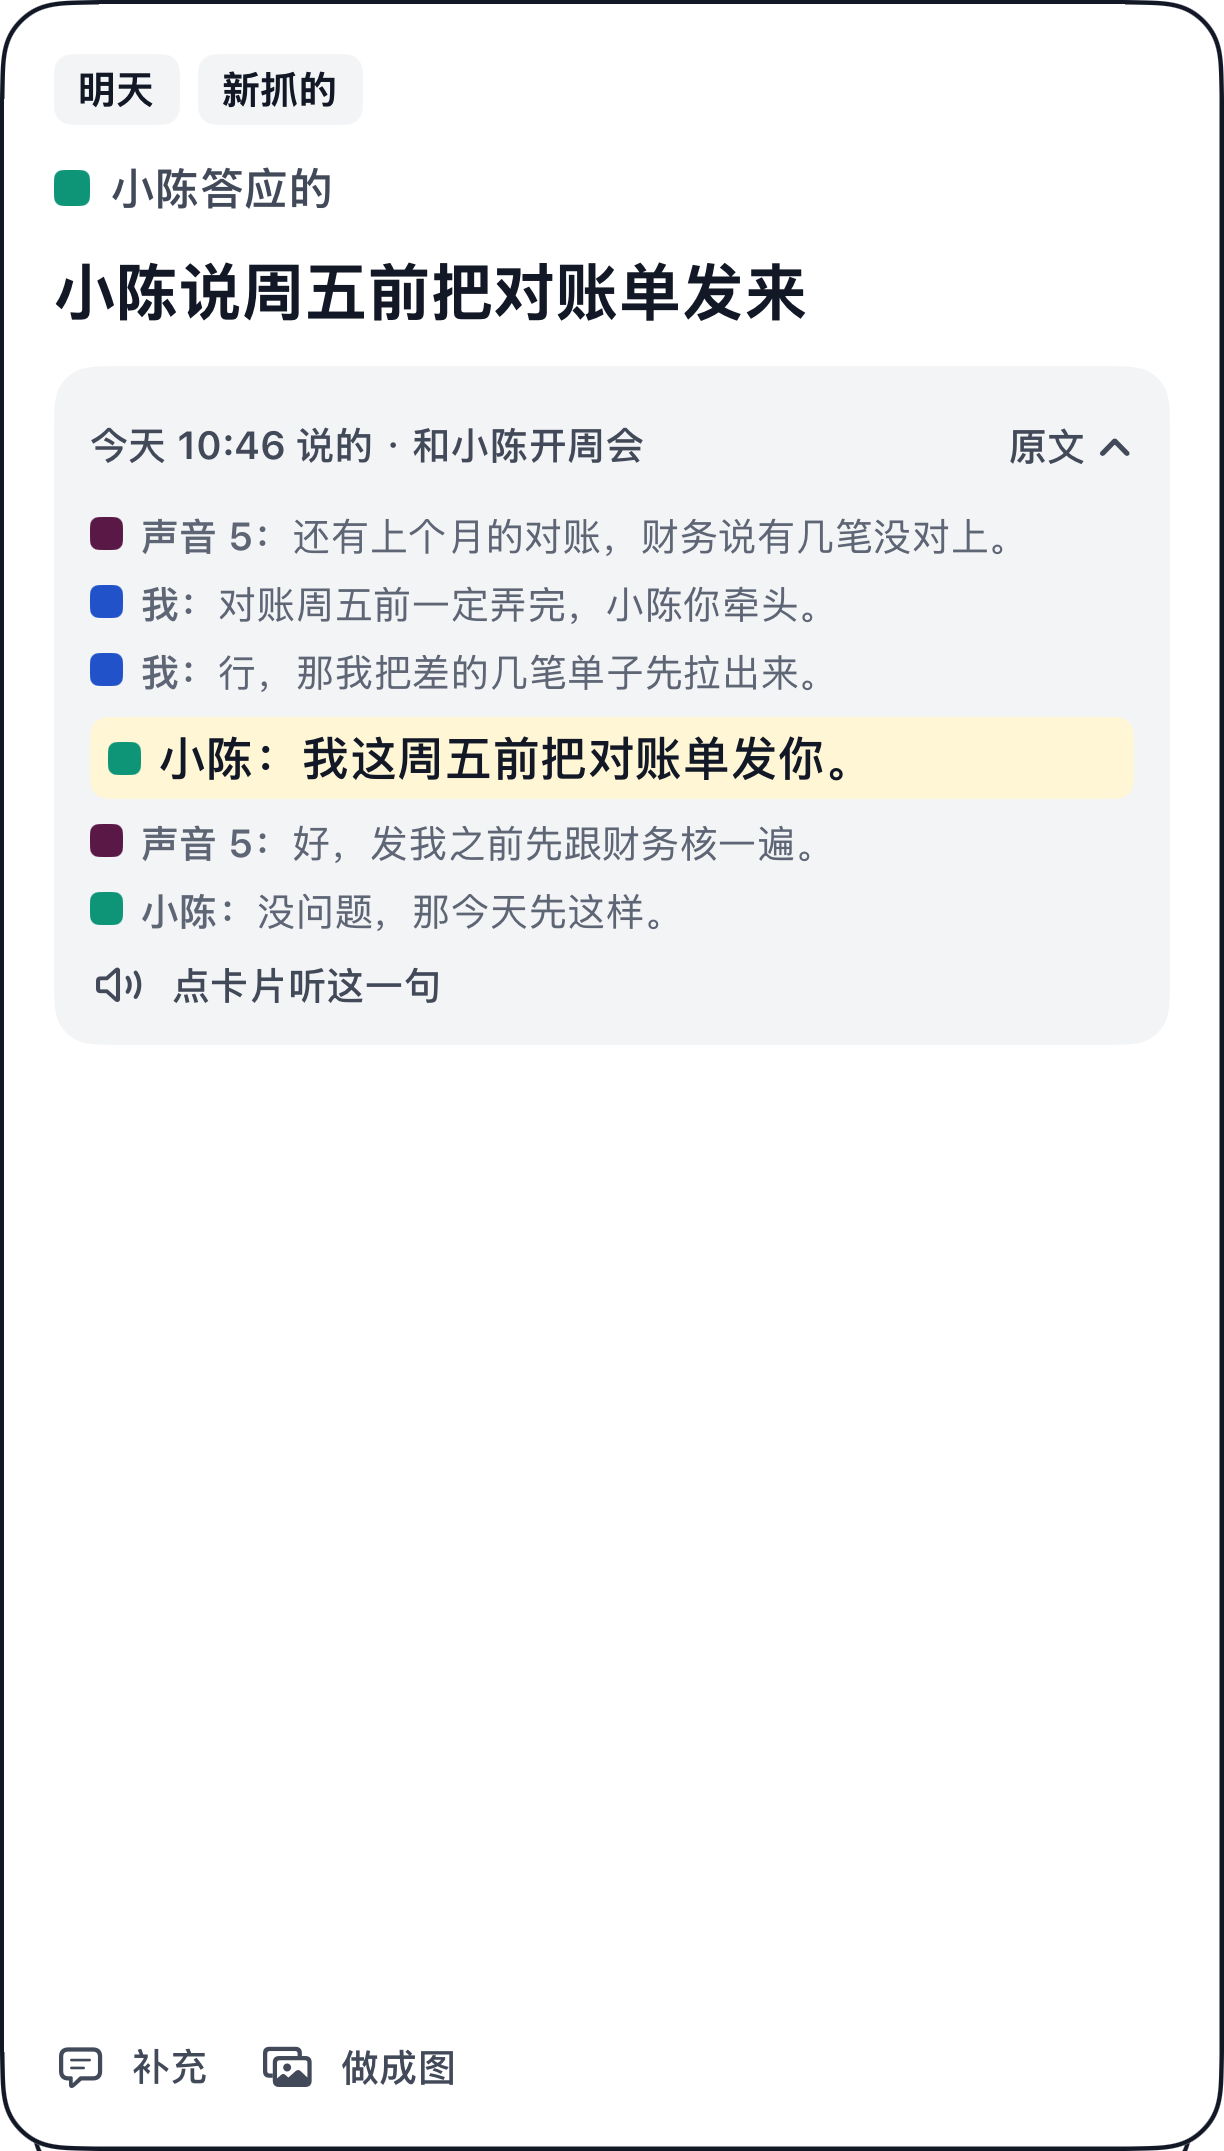
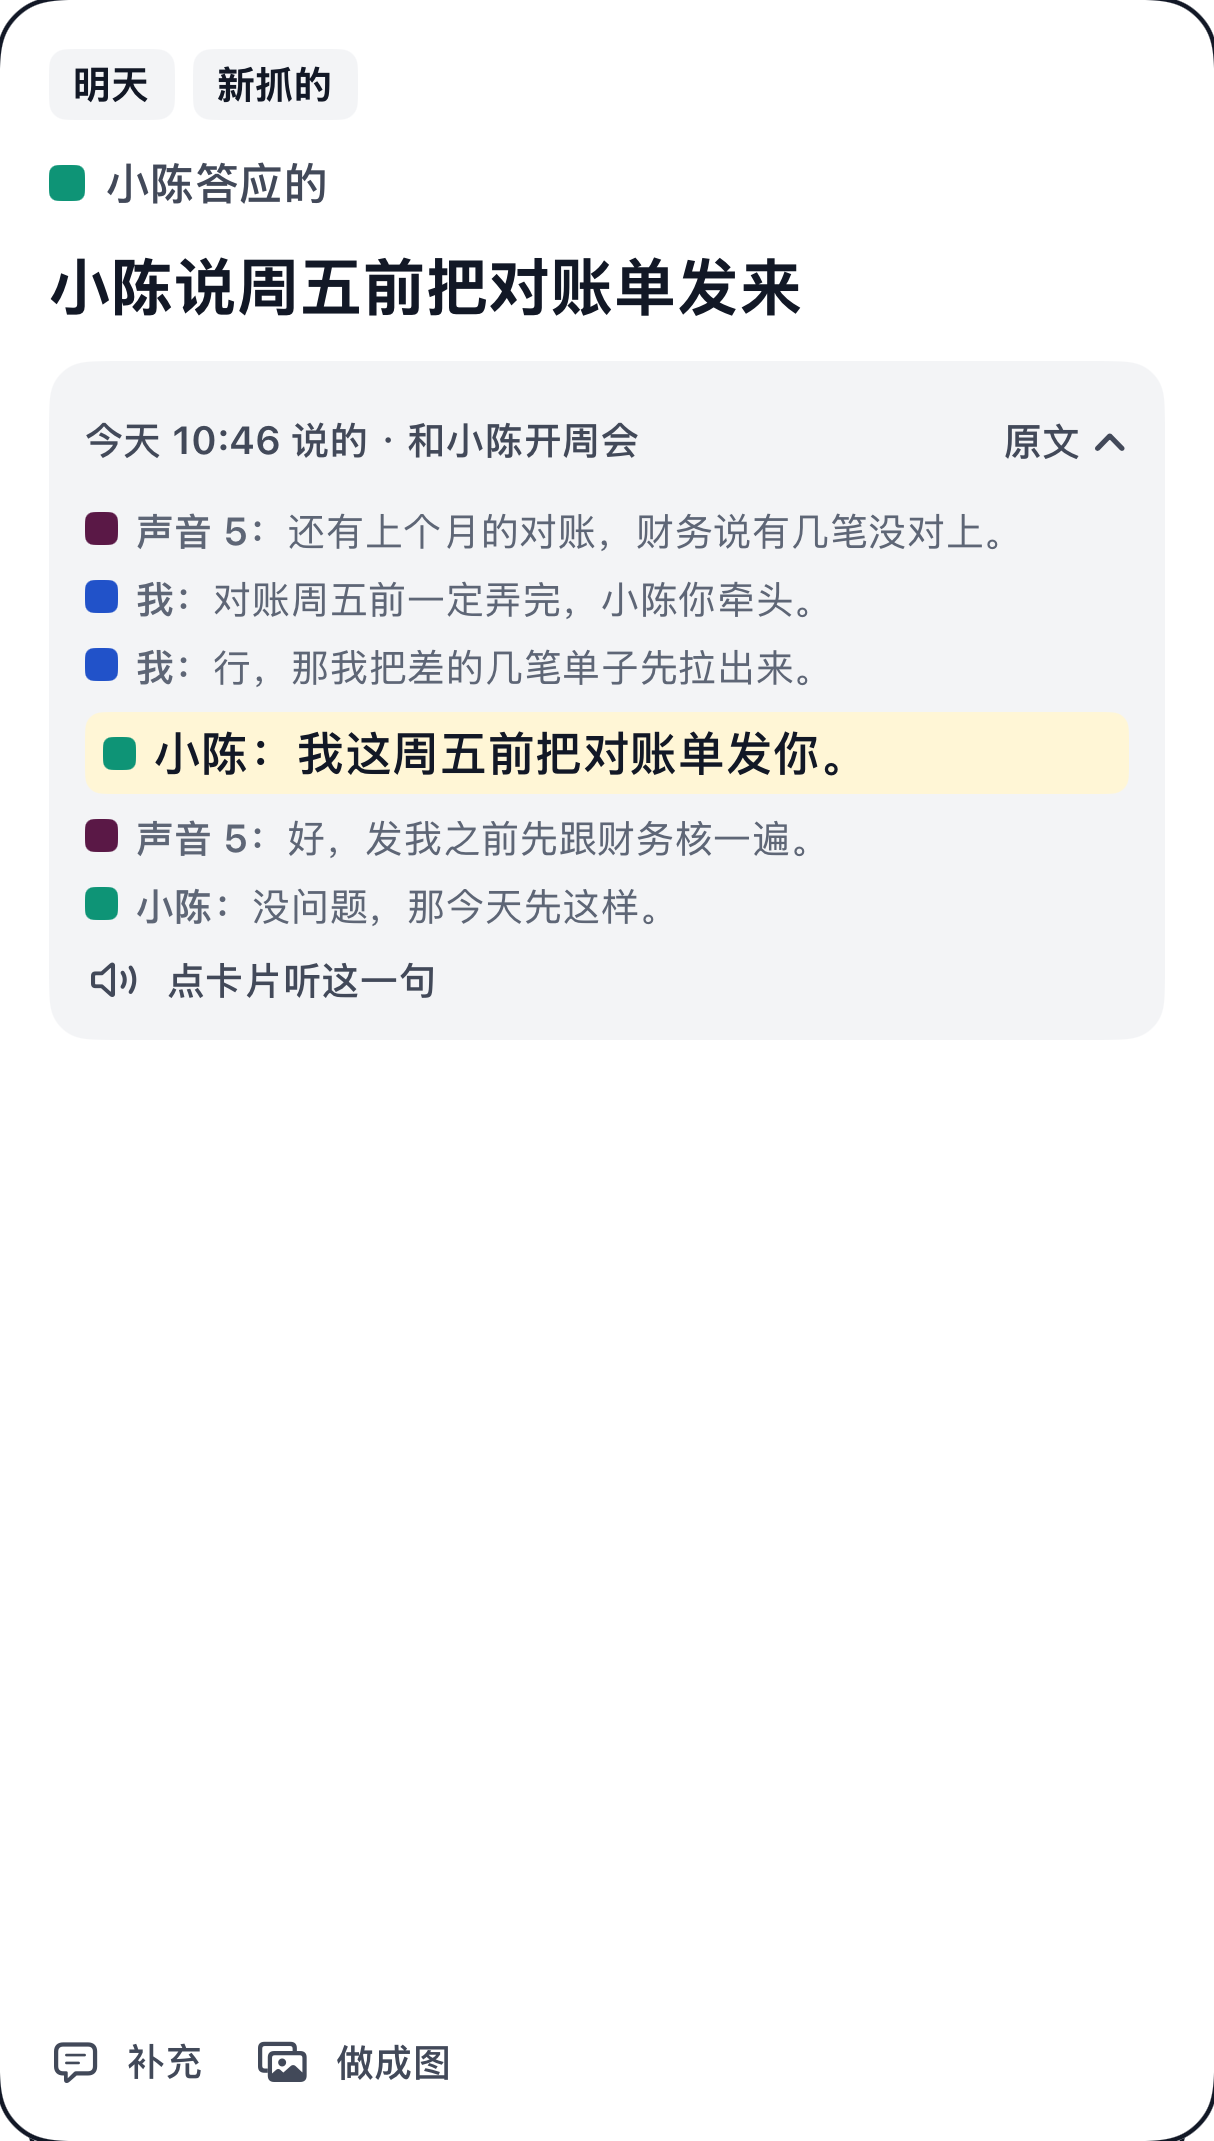
fix(fanear): 待办动效改成左右两轮都真的滑走，回到起始不再两张卡重影
- 两轮交替、每轮都从静止开始：第一轮左滑变琥珀「要做 · 稍后提醒」向左飞走，第二轮右滑变绿
  「做完了 / 不用做 · 不再提醒」向右飞走；两个方向露出的都是同一张下一张（小陈对账单），跟 App 一致。
  不再左拖又拖回来、不带着淡色穿过中线。
- 回到起始分两步：下一张先淡出成空牌堆，第一张再从牌堆里升上来，卡片区域任何时候只有一张卡的字。
- 下一张的裁图只取边框以内，边框由样式画（在后面浅灰 1 点、顶上来变深墨 1.5 点），静止时底边跟截图一致。

Claude-Session-Id: 984c1437-685c-4510-96a0-a9639aec2790

diff --git a/sites/fanear/src/styles/shot-motion.css b/sites/fanear/src/styles/shot-motion.css
@@ -5,7 +5,7 @@
    系统设了「减弱动态效果」完全不出来。
    位置都按截图上的点写：--u 是一点在页面上多宽（这部手机的屏幕宽 = 440 点），跟着手机宽度缩放。
    动画一律分开写（animation-name、animation-duration……），不用 animation 简写（同 scroll-motion.css 里写的原因）。
-   拖动距离、滑条进度、往上挪多少各用一个登记过的变量（@property）做动画，颜色、倾斜、透明度都由它算出来，
+   拖动距离、滑条进度、往上挪多少、第一张升回来多少各用一个登记过的变量（@property）做动画，颜色、倾斜、透明度都由它算出来，
    和 App 里按拖动距离算的公式一样。 */
 
 @property --sm-x {
@@ -15,6 +15,12 @@
 }
 
 @property --sm-p {
+	syntax: '<number>';
+	inherits: true;
+	initial-value: 0;
+}
+
+@property --sm-r {
 	syntax: '<number>';
 	inherits: true;
 	initial-value: 0;
@@ -93,15 +99,31 @@
 
 /* ---------- 待办：滑卡 ---------- */
 
-/* 一轮 7.6 秒：0.4 秒后手指按上去，往左拖 105 点（1.1 秒）停 0.6 秒，再往右拖过去（1.4 秒）停 0.6 秒，
-   0.3 秒飞走，下一张已经长回原尺寸、边框变黑顶上来；停 1.85 秒，0.4 秒淡回截图原样，再停 0.6 秒。
-   淡回去这一下不是「飞走的又回来了」：是一轮放完、从头再放 */
-.sm-todo.is-playing {
-	animation-name: sm-todo-x, sm-end-todo;
-	animation-duration: 7.6s;
+/* 两轮交替，每轮 4.2 秒，都从静止开始：0.3 秒后手指按上去，拖 105 点（1.1 秒）停 0.6 秒，0.3 秒飞走
+   （第一轮往左「要做 · 稍后提醒」，第二轮往右「做完了 / 不用做 · 不再提醒」），两轮露出来的都是同一张下一张，跟 App 一样；
+   下一张已经长回原尺寸、边框变黑顶在最上面，停 0.75 秒。回到起始分两步，卡片区域任何时候只有一张卡的字：
+   下一张 0.3 秒淡出成空牌堆（纸白底和底下露出的两道边），第一张再 0.3 秒从牌堆里升上来（缩小 5%、下移 12 点 → 原位）。 */
+.sm-todo.is-playing,
+.sm-todo.is-playing .sm-a,
+.sm-todo.is-playing .sm-b,
+.sm-todo.is-playing .sm-touch,
+.sm-todo.is-playing .sm-b-edge {
+	animation-duration: 8.4s;
 	animation-timing-function: linear;
 	animation-iteration-count: infinite;
 	animation-fill-mode: both;
+}
+
+.sm-todo.is-playing {
+	animation-name: sm-todo-x, sm-todo-rise;
+}
+
+.sm-todo.is-playing .sm-a {
+	animation-name: sm-todo-a;
+}
+
+.sm-todo.is-playing .sm-b {
+	animation-name: sm-todo-b;
 }
 
 /* 拖到哪（0…1）：横着拖 96 点算过线（TodoBoard horizontalCommit） */
@@ -116,9 +138,11 @@
 	transform-origin: 50% 100%;
 }
 
-/* 最上面那张跟着手走，倾斜 = 横移 / 20 度，最多 12 度，以卡底为轴（TodoDeck.tilt） */
+/* 最上面那张跟着手走，倾斜 = 横移 / 20 度，最多 12 度，以卡底为轴（TodoDeck.tilt）；
+   回到起始时从牌堆里升上来：--sm-r 从 1 到 0，跟后面那张的缩小、下移一样 */
 .sm-todo .sm-a {
-	transform: translateX(calc(var(--sm-x) * var(--u))) rotate(calc(clamp(-12, var(--sm-x) / 20, 12) * 1deg));
+	transform: translateX(calc(var(--sm-x) * var(--u))) rotate(calc(clamp(-12, var(--sm-x) / 20, 12) * 1deg))
+		translateY(calc(12 * var(--sm-r) * var(--u))) scale(calc(1 - 0.05 * var(--sm-r)));
 }
 
 /* 后面那张：平时缩小 5%、下移 12 点（只露底边）；上面那张拖得越远越接近原尺寸（TodoDeckPage.stack） */
@@ -126,21 +150,24 @@
 	transform: translateY(calc(12 * (1 - var(--p)) * var(--u))) scale(calc(1 - 0.05 * (1 - var(--p))));
 }
 
-.sm.sm-todo .sm-b > img {
-	position: absolute;
-	inset: 0;
-	width: 100%;
-	height: 100%;
+/* 后面那张：纸白底，裁图只是边框以内那块，边框由 .sm-b-edge 画 */
+.sm-todo .sm-b {
+	background: var(--c-paper);
 }
 
-/* 后面那张的边：浅灰 1 点；顶上来以后变成最上面那张的深墨边 */
+.sm.sm-todo .sm-b > img {
+	position: absolute;
+	inset: calc(var(--in) * var(--u));
+	width: calc(100% - 2 * var(--in) * var(--u));
+	height: calc(100% - 2 * var(--in) * var(--u));
+}
+
+/* 后面那张的边：在后面时浅灰 1 点；顶上来时变成最上面那张的 1.5 点深墨边（TodoDeckCard 的 isTop） */
 .sm-b-edge {
 	position: absolute;
 	inset: 0;
 	border-radius: inherit;
-	box-shadow:
-		inset 0 0 0 calc(1 * var(--u)) var(--c-line),
-		inset 0 0 0 calc(1.5 * var(--u)) var(--c-paper);
+	box-shadow: inset 0 0 0 calc(1 * var(--u)) var(--c-line);
 }
 
 /* 整张染色：底色不透明度 0.92 × 进度，字和图标 1.5 × 进度（比底色先出来），过线时字从 0.9 放到 1（TodoSwipeTint） */
@@ -205,14 +232,6 @@
 	font-weight: 600;
 }
 
-.sm-todo.is-playing .sm-touch,
-.sm-todo.is-playing .sm-b-edge {
-	animation-duration: 7.6s;
-	animation-timing-function: linear;
-	animation-iteration-count: infinite;
-	animation-fill-mode: both;
-}
-
 .sm-todo.is-playing .sm-touch {
 	animation-name: sm-todo-touch;
 }
@@ -223,69 +242,189 @@
 
 @keyframes sm-todo-x {
 	0%,
-	9.868% {
+	7.143% {
 		--sm-x: 0;
 		animation-timing-function: ease-in-out;
 	}
 
-	24.342%,
-	32.237% {
+	20.238%,
+	27.381% {
 		--sm-x: -105;
+		animation-timing-function: cubic-bezier(0.42, 0, 1, 1);
+	}
+
+	30.952%,
+	45.238% {
+		--sm-x: -620;
+		animation-timing-function: steps(1, start);
+	}
+
+	50%,
+	57.143% {
+		--sm-x: 0;
 		animation-timing-function: ease-in-out;
 	}
 
-	50.658%,
-	58.553% {
+	70.238%,
+	77.381% {
 		--sm-x: 105;
 		animation-timing-function: cubic-bezier(0.42, 0, 1, 1);
 	}
 
-	62.5%,
-	100% {
+	80.952%,
+	95.238% {
 		--sm-x: 620;
+		animation-timing-function: steps(1, start);
+	}
+
+	100% {
+		--sm-x: 0;
 	}
 }
 
-@keyframes sm-end-todo {
+/* 第一张升回来：飞走的卡在下一张淡出完的那一刻回到原位，先藏着、缩小下移，再升上来 */
+@keyframes sm-todo-rise {
 	0%,
-	86.842% {
+	45.237% {
+		--sm-r: 0;
+	}
+
+	45.238% {
+		--sm-r: 1;
+		animation-timing-function: ease-out;
+	}
+
+	48.81%,
+	95.237% {
+		--sm-r: 0;
+	}
+
+	95.238% {
+		--sm-r: 1;
+		animation-timing-function: ease-out;
+	}
+
+	98.81%,
+	100% {
+		--sm-r: 0;
+	}
+}
+
+@keyframes sm-todo-a {
+	0%,
+	45.237% {
 		opacity: 1;
 	}
 
-	92.105%,
-	100% {
+	45.238% {
 		opacity: 0;
+		animation-timing-function: ease-out;
+	}
+
+	48.81%,
+	95.237% {
+		opacity: 1;
+	}
+
+	95.238% {
+		opacity: 0;
+		animation-timing-function: ease-out;
+	}
+
+	98.81%,
+	100% {
+		opacity: 1;
+	}
+}
+
+/* 下一张淡出成空牌堆；第一张升回来以后它已经缩回后面，再露出来（只露底边，跟截图一样） */
+@keyframes sm-todo-b {
+	0%,
+	41.667% {
+		opacity: 1;
+		animation-timing-function: ease-in-out;
+	}
+
+	45.238%,
+	48.81% {
+		opacity: 0;
+		animation-timing-function: steps(1, start);
+	}
+
+	50%,
+	91.667% {
+		opacity: 1;
+		animation-timing-function: ease-in-out;
+	}
+
+	95.238%,
+	98.81% {
+		opacity: 0;
+		animation-timing-function: steps(1, start);
+	}
+
+	100% {
+		opacity: 1;
 	}
 }
 
 @keyframes sm-todo-touch {
 	0%,
-	5.263% {
+	3.571% {
 		opacity: 0;
 		animation-timing-function: ease-out;
 	}
 
-	8.553%,
-	58.553% {
+	6.548%,
+	27.381% {
 		opacity: 1;
 	}
 
-	60.526%,
+	29.167%,
+	53.571% {
+		opacity: 0;
+		animation-timing-function: ease-out;
+	}
+
+	56.548%,
+	77.381% {
+		opacity: 1;
+	}
+
+	79.167%,
 	100% {
 		opacity: 0;
 	}
 }
 
+/* 飞走时后面那张的边从浅灰变成深墨；它藏着的时候换回浅灰 */
 @keyframes sm-todo-top {
 	0%,
-	62.5% {
-		opacity: 1;
+	30.952% {
+		box-shadow: inset 0 0 0 calc(1 * var(--u)) var(--c-line);
 		animation-timing-function: ease-out;
 	}
 
-	64.474%,
+	32.738%,
+	45.238% {
+		box-shadow: inset 0 0 0 calc(1.5 * var(--u)) var(--c-ink);
+		animation-timing-function: steps(1, start);
+	}
+
+	50%,
+	80.952% {
+		box-shadow: inset 0 0 0 calc(1 * var(--u)) var(--c-line);
+		animation-timing-function: ease-out;
+	}
+
+	82.738%,
+	95.238% {
+		box-shadow: inset 0 0 0 calc(1.5 * var(--u)) var(--c-ink);
+		animation-timing-function: steps(1, start);
+	}
+
 	100% {
-		opacity: 0;
+		box-shadow: inset 0 0 0 calc(1 * var(--u)) var(--c-line);
 	}
 }
 

diff --git a/sites/fanear/src/lib/shot-motion.ts b/sites/fanear/src/lib/shot-motion.ts
@@ -42,9 +42,11 @@ export const TODO_MOTION = {
 	drag: { x: 15, y: 121, w: 410, h: 719 },
 	radius: 22,
 	/** 飞走以后顶上来的那张：App 演示数据里真正的下一张「小陈说周五前把对账单发来」。
-	 *  像素裁自同一台模拟器、同一份演示数据拍的「滑走一张以后」那屏，裁出来正好是卡的位置和大小 */
+	 *  像素裁自同一台模拟器、同一份演示数据拍的「滑走一张以后」那屏，只裁边框以内（边框由样式画：在后面时浅灰、顶上来变深墨） */
 	next: todoNextCard as ImageMetadata,
-	nextFrom: 'fanear/本地资料/accept-020-20261015/todo-polish-020/after/phone-todo-swipe-out.png，裁 (48,366)-(1272,2517) 像素',
+	nextFrom: 'fanear/本地资料/accept-020-20261015/todo-polish-020/after/phone-todo-swipe-out.png，裁 (53,371)-(1267,2512) 像素',
+	/** 裁图在卡里往里缩多少点（5 像素 = 1.67 点） */
+	nextInset: 5 / 3,
 	/** 手指按在卡上哪儿（相对卡左上角） */
 	touch: { x: 204, y: 590 },
 	/** 染色那块：图标、大字、小字的中心高度（相对卡顶，量自 App 拖到一半的截图） */
